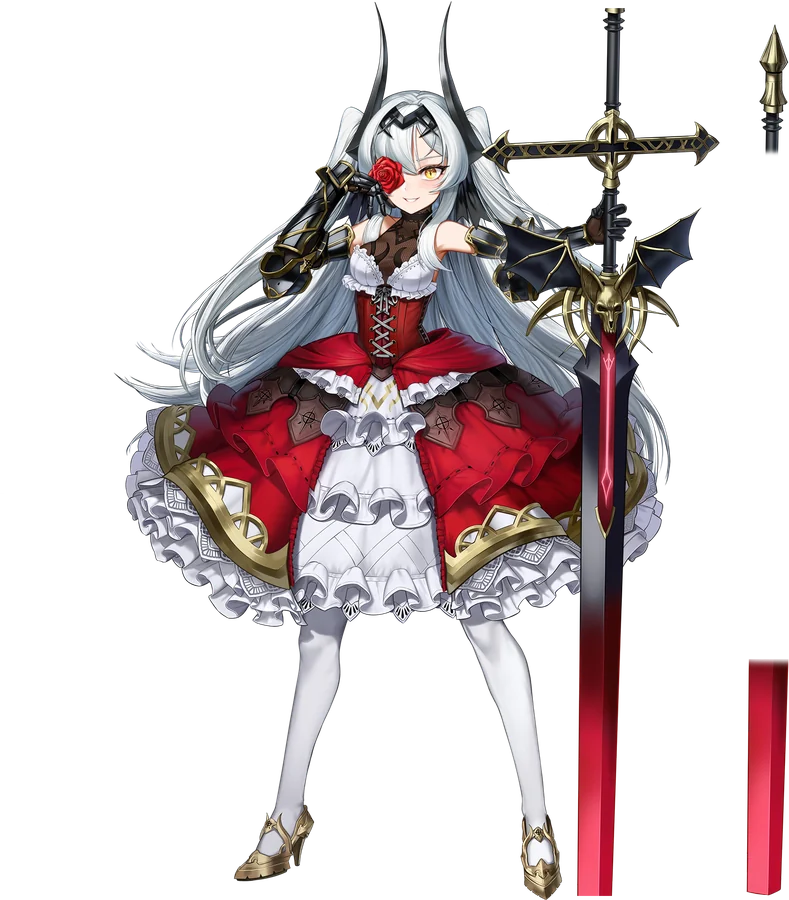
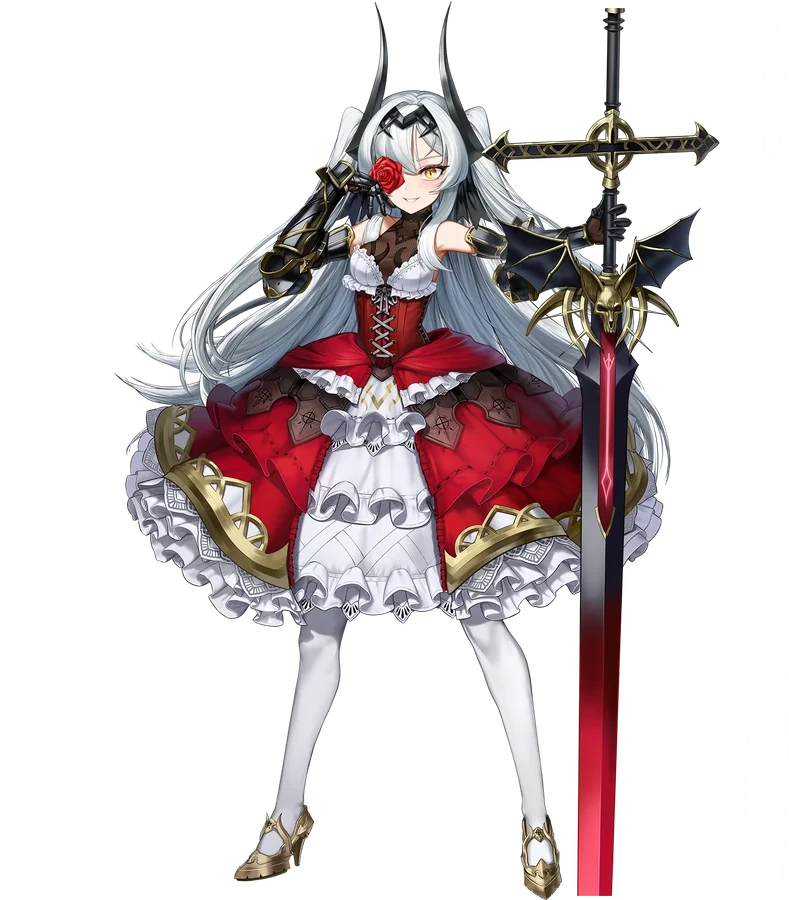
V1.13: 버그 수정 - 깨진 전신 일러스트 4명 수정(엘알엘·콘스탄챠는 정상 그림으로 교체, 블라인드 프린세스·사이클롭스 프린세스는 떠 있던 부품 제거)

Changed region(s): [[0.943, 0.7156, 1.0, 0.9956], [0.943, 0.0311, 1.0, 0.1867]]

diff --git a/js/app.js b/js/app.js
@@ -114,7 +114,7 @@
   const shuffle = (list) => { const a = list.slice(); for (let i = a.length - 1; i > 0; i--) { const j = Math.floor(Math.random() * (i + 1)); [a[i], a[j]] = [a[j], a[i]]; } return a; };
 
   // ── title ──────────────────────────────────────────────
-  const VERSION = 'V1.12'; // shown at the title's bottom right and in the settings
+  const VERSION = 'V1.13'; // shown at the title's bottom right and in the settings
   $('ver').textContent = VERSION;
   document.querySelector('#title .title-bg').style.backgroundImage = `url(${IMG.bg_title})`;
   // the title shows the campaign's own leads (the coast where it starts, Leprechaun / Brownie / Gnome)

diff --git a/sw.js b/sw.js
@@ -1,6 +1,6 @@
 // Offline / repeat-visit cache. Heavy data (rigs, baked effects, sounds, illustrations) is cache-first: it only changes
 // when the build tools run, and then CACHE is bumped. Code and pages are network-first so edits show up at once.
-const CACHE = 'lao-war-genesis-9d6263fc1b';
+const CACHE = 'lao-war-genesis-cde84925eb';
 const HEAVY = /\/(js\/sd|js\/fx|assets)\//;
 
 self.addEventListener('install', () => self.skipWaiting());

diff --git a/index.html b/index.html
@@ -221,7 +221,7 @@
 <script src="js/fx/_meta.js?v=9466c56f"></script>
 <script src="js/audio.js?v=f2275017"></script>
 <script src="js/game.js?v=59135137"></script>
-<script src="js/patchnotes.js?v=daba304a"></script>
-<script src="js/app.js?v=16c9634d"></script>
+<script src="js/patchnotes.js?v=48848e4e"></script>
+<script src="js/app.js?v=81925b36"></script>
 </body>
 </html>

diff --git a/js/patchnotes.js b/js/patchnotes.js
@@ -1,5 +1,6 @@
 // 패치노트: 첫 화면의 '패치노트' 버튼에서 보여 준다. 새 버전을 올릴 때마다 맨 위에 추가한다.
 window.PATCHNOTES = [
+  { v: 'V1.13', items: ['버그 수정'] },
   { v: 'V1.12', items: ['버그 수정'] },
   { v: 'V1.11', items: ['버그 수정'] },
   { v: 'V1.10', items: ['임시 출시'] },
